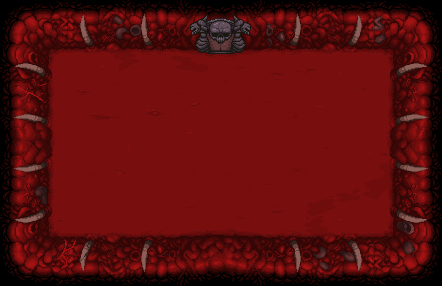
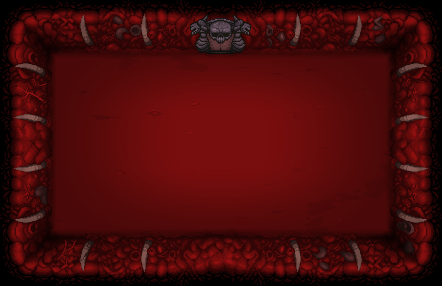
add room L, no fixed size

diff --git a/src/components/SectionBackground/SectionBackground.tsx b/src/components/SectionBackground/SectionBackground.tsx
@@ -23,9 +23,9 @@ const SectionBackground = ({
   const sectionRef = useRef(null);
 
   useEffect(() => {
-    if(id == 5 && shadowRef1.current !== null ){
+    if (id == 5 && shadowRef1.current !== null) {
       shadowRef1.current.style.backgroundImage = `url(/img/shadows/shadow_floor${shadow}_right.png)`;
-    }else if (shadowRef1.current !== null && shadowRef2.current !== null) {
+    } else if (shadowRef1.current !== null && shadowRef2.current !== null) {
       shadowRef1.current.style.backgroundImage = `url(/img/shadows/shadow_floor${shadow}_right.png)`;
       shadowRef2.current.style.backgroundImage = `url(/img/shadows/shadow_floor${shadow}_left.png)`;
     }
@@ -53,17 +53,19 @@ const SectionBackground = ({
     (() => {
       switch (id) {
         case 1:
-          return [0.278, 0.28, 0.698, 0.7];
+          return [0.1919, 0.192, 0.4809, 0.481,0.577,0.721];
         case 2:
-          return [0.278, 0.28, 0.698, 0.7];
+          return [0.1919, 0.192, 0.4809, 0.481,0.577,0.721];
         case 3:
-          return [0.278, 0.28, 0.698, 0.7];
+          return [0.1919, 0.192, 0.4809, 0.481,0.577,0.721];
         case 4:
-          return [0.278, 0.28, 0.698, 0.7];
+          return [0.1919, 0.192, 0.4809, 0.481,0.577,0.721];
         case 5:
-          return [0.278, 0.28, 0.698, 0.7];
+          return [0.1919, 0.192, 0.4809, 0.481,0.577,0.721];
         case 6:
-          return [0, 0];
+          return [0.1919, 0.192, 0.4809, 0.481,0.577,0.721];
+        case 7:
+          return [0.1919, 0.192, 0.4809, 0.481,0.577,0.721];
         default:
           return [0, 0];
       }
@@ -71,17 +73,19 @@ const SectionBackground = ({
     (() => {
       switch (id) {
         case 1:
-          return ["0%", "-100%", "-100%", "0%"];
+          return ["0%", "-100%", "-100%", "0%","0%","-76.6%"];
         case 2:
-          return ["0%", "-100%", "-100%", "0%"];
+          return ["0%", "-100%", "-100%", "0%","0%","-76.6%"];
         case 3:
-          return ["100%", "0%", "0%", "100%"];
+          return ["100%", "0%", "0%", "100%","100%","23.4%"];
         case 4:
-          return ["100%", "0%", "0%", "100%"];
+          return ["100%", "0%", "0%", "100%","100%","23.4%"];
         case 5:
-          return ["0%", "-100%", "-100%", "0%"];
+          return ["0%", "-100%", "-100%", "0%","0%","-76.6%"];
         case 6:
-          return ["0%", "100%"];
+          return ["0%", "-100%", "-100%", "0%","0%","-94%"];
+        case 7:
+          return ["76.6%", "-23.4%", "-23.4%", "94%","94%","0%"];
         default:
           return ["0%", "100%"];
       }
@@ -93,15 +97,19 @@ const SectionBackground = ({
     (() => {
       switch (id) {
         case 1:
-          return [0.138, 0.14, 0.558, 0.56];
+          return [0.0959, 0.096, 0.3849, 0.385,  0.5769,  0.577, 0.8649, 0.865];
         case 2:
-          return [0.138, 0.14, 0.558, 0.56];
+          return [0.0959, 0.096, 0.3849, 0.385,  0.5769,  0.577, 0.8649, 0.865];
         case 3:
-          return [0.138, 0.14, 0.558, 0.56];
+          return [0.0959, 0.096, 0.3849, 0.385,  0.5769,  0.577, 0.8649, 0.865];
         case 4:
-          return [0.138, 0.14, 0.558, 0.56];
+          return [0.0959, 0.096, 0.3849, 0.385,  0.5769,  0.577, 0.8649, 0.865];
         case 5:
-          return [0.138, 0.14, 0.558, 0.56];
+          return [0.0959, 0.096, 0.3849, 0.385,  0.5769,  0.577, 0.8649, 0.865];
+        case 6:
+          return [0.0959, 0.096, 0.3849, 0.385,  0.5769,  0.577, 0.8649, 0.865];
+        case 7:
+          return [0.0959, 0.096, 0.3849, 0.385,  0.5769,  0.577, 0.8649, 0.865];
         default:
           return [0, 0];
       }
@@ -109,15 +117,82 @@ const SectionBackground = ({
     (() => {
       switch (id) {
         case 1:
-          return [0, -130.5, -130.5, -213.5 - 130.5];
+          return [
+            0,
+            -130.5,
+            -130.5,
+            -213.2 - 130.5,
+            -213.2 - 130.5,
+            -213.2 - 130.5 - 130.5,
+            -213.2 - 130.5 - 130.5,
+            -213.2 - 213.2 - 130.5 - 130.5,
+          ];
         case 2:
-          return [130.5, 0, 0, -213.5];
+          return [
+            130.5,
+            0,
+            0,
+            -213.2,
+            -213.2,
+            -213.2 - 130.5,
+            -213.2 - 130.5,
+            -213.2 - 213.2 - 130.5,
+          ];
         case 3:
-          return [130.5, 0, 0, -213.5];
+          return [
+            130.5,
+            0,
+            0,
+            -213.2,
+            -213.2,
+            -213.2 - 130.5,
+            -213.2 - 130.5,
+            -213.2 - 213.2 - 130.5,
+          ];
         case 4:
-          return [213.5 + 130.5, 213.5, 213.5, 0];
+          return [
+            213.2 + 130.5,
+            213.2,
+            213.2,
+            0,
+            0,
+            -130.5,
+            -130.5,
+            -213.2  - 130.5,
+          ];
         case 5:
-          return [213.5 + 130.5, 213.5, 213.5, 0];
+          return [
+            213.2 + 130.5,
+            213.2,
+            213.2,
+            0,
+            0,
+            -130.5,
+            -130.5,
+            -213.2 - 130.5,
+          ];
+        case 6:
+          return [
+            213.2 + 130.5+130.5,
+            213.2 +130.5,
+            213.2 + 130.5,
+            130.5,
+            130.5,
+            0,
+            0,
+            -213.2,
+          ];
+        case 7:
+          return [
+            213.2 + 213.2 + 130.5 + 130.5,
+            213.2 + 213.2 + 130.5,
+            213.2 + 213.2 + 130.5,
+            213.2 + 130.5,
+            213.2 + 130.5,
+            213.2,
+            213.2,
+            0,
+          ];
         default:
           return [0, 0];
       }
@@ -153,12 +228,17 @@ const SectionBackground = ({
         className={styles.scene}
         style={{
           backgroundImage: `url(/img/rooms/${name}.png)`,
-          height: id == 3 ? "213.5vh" : "130.5vh",
+          height: id == 3 ? "213.2vh" : id == 6 ?  "241.8vh": "130.5vh",
+          width: id == 6 ? "200vw" : "100vw",
         }}
       >
         {id == 5 ? (
           <>
-            <motion.div ref={shadowRef1} className={styles.shadow} style={{width: "108%"}}></motion.div>
+            <motion.div
+              ref={shadowRef1}
+              className={styles.shadow}
+              style={{ width: "108%" }}
+            ></motion.div>
           </>
         ) : (
           <>

diff --git a/src/components/SectionImage/SectionImage.tsx b/src/components/SectionImage/SectionImage.tsx
@@ -20,7 +20,7 @@ const sections = [
   { id: 3, shadow: "21", name: "cavesv2" },
   { id: 4, shadow: "22", name: "catacombs" },
   { id: 5, shadow: "31", name: "necropolis" },
-  { id: 6, shadow: "32", name: "depths" },
+  { id: 6, shadow: "32", name: "depthsL" },
   { id: 7, shadow: "41", name: "utero" },
 ];
 
@@ -29,26 +29,27 @@ const SectionImage = ({ height }: PropsImagen) => {
 
   const { scrollYProgress } = useScroll({
     target: scrollRef,
-    offset: ["start start", "end start"],
+    offset: ["start start", "end end"],
   });
 
   useMotionValueEvent(scrollYProgress, "change", (value) => console.log(value));
   const yscrollRaw = useTransform(
     scrollYProgress,
     [
-      0, 0.1, 0.138, 0.14, 0.24, 0.278, 0.28, 0.48, 0.558, 0.56, 0.66,0.698,0.70
+      0,0.0959, 0.0959,0.096, 0.096,0.1919, 0.1919,0.192, 0.192,0.3849, 0.3849,0.385 ,0.385,0.4809, 0.4809,0.481, 0.481,0.5769 ,0.5769,0.577
     ],
-    [0, -15, -15, 0, -15, -15, 0, -98,  -98, 0,-15,-15,0]
+    [-15,-15, -15,0, 0,-15, -15,0, 0,-98,-98,0, 0,-15, -15,0, 0,-15, -15,-15 ]
   );
   const yscrollsmooth = useSpring(yscrollRaw, { stiffness: 200, damping: 40 });
   const value = useTransform(yscrollsmooth, (value) => `${value}vh`);
+  const scale = useTransform(scrollYProgress, [0.962, 1], [1, 0.15]);
   return (
     <motion.section
       ref={scrollRef}
       className={styles.container_sImage}
       style={{ height: `${height}` }}
     >
-      <motion.div className={styles.sticky} style={{ y: value }}>
+      <motion.div className={styles.sticky} style={{ y: value, scale: scale }}>
         {sections.map((section) => (
           <SectionBackground
             key={section.id}

diff --git a/src/components/SectionBackground/SectionBackground.module.css b/src/components/SectionBackground/SectionBackground.module.css
@@ -11,7 +11,7 @@
         justify-content: center;
         background-repeat: no-repeat;
         width: 100vw;
-        background-size:contain;
+        background-size:cover;
         overflow: hidden;
         background-color: black;
         .shadow{

diff --git a/src/pages/Home/Home.tsx b/src/pages/Home/Home.tsx
@@ -14,7 +14,7 @@ const Home = ({ onLoaded }: Props) => {
     <>
       <div className={styles.container_home}>
         <SectionImage
-          height="5500vh"
+          height="5200vh"
         ></SectionImage>
       </div>
     </>

diff --git a/src/components/SectionImage/SectionImage.module.css b/src/components/SectionImage/SectionImage.module.css
@@ -4,6 +4,7 @@
     width: 100vw;
     min-height: 100vh;
     position: sticky;
+    transform-origin: bottom;
     top: 0;
   }
 }
